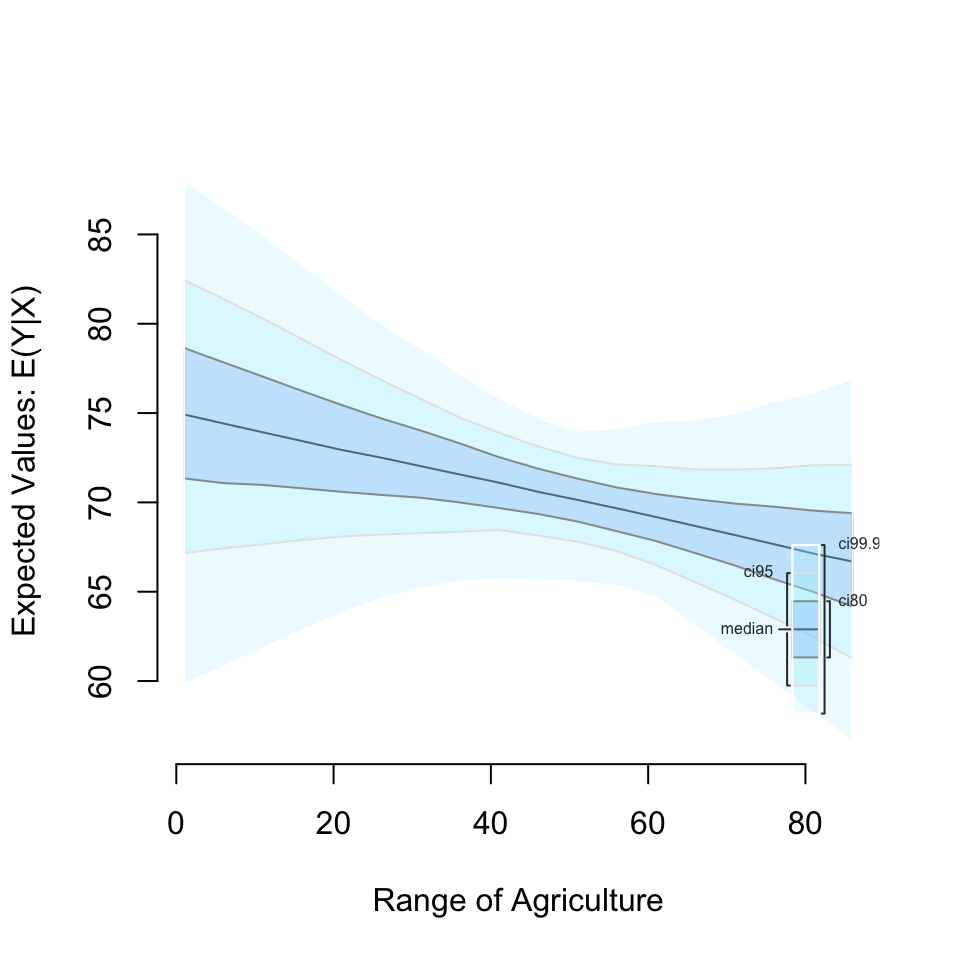
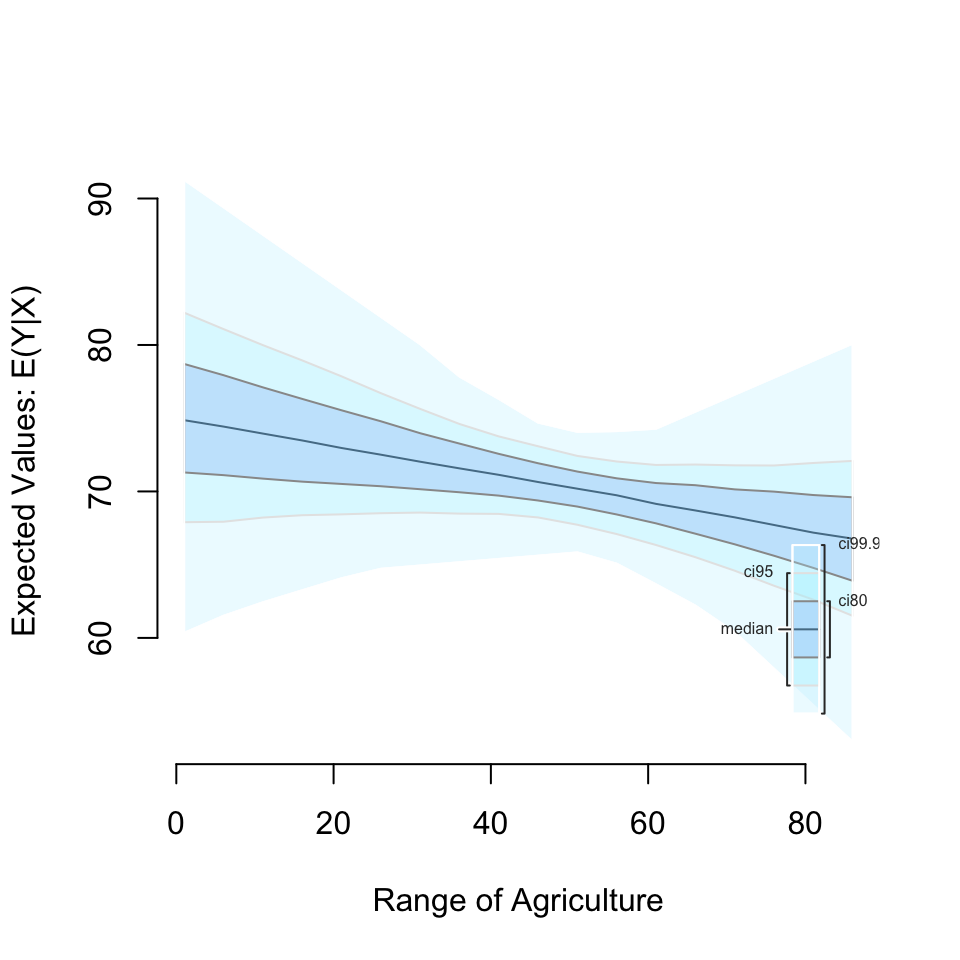
minor

diff --git a/index.html b/index.html
@@ -121,7 +121,7 @@ $(document).ready(function () {
 
 <div id="everyones-statistical-software" class="section level1">
 <h1>Everyone’s Statistical Software</h1>
[2 lines of base64/hex data omitted]
 <blockquote>
 <p><strong>NOTE: This site is in BETA.</strong> For the current official Zelig site see: <a href="http://zeligproject.org" class="uri">http://zeligproject.org</a></p>
 </blockquote>

diff --git a/docs/articles/zelig-tidyverse.html b/docs/articles/zelig-tidyverse.html
@@ -105,7 +105,7 @@
     <div class="page-header toc-ignore">
       <h1>Zelig and the Tidyverse</h1>
             
-            <h4 class="date">2017-02-22</h4>
+            <h4 class="date">2017-02-23</h4>
           </div>
 
     
@@ -175,12 +175,12 @@ swiss %&gt;%<span class="st"> </span>
 
 <span class="kw">head</span>(sims.full)</code></pre></div>
 <pre><code>##   setx_value Agriculture Examination expected_value predicted_value
-## 1          x           1    16.48936       84.00574        79.82021
-## 2          x           1    16.48936       73.08617        78.50654
-## 3          x           1    16.48936       70.35042        75.76874
-## 4          x           1    16.48936       80.27739        90.41597
-## 5          x           1    16.48936       75.50518        73.32123
-## 6          x           1    16.48936       74.67167        80.02266</code></pre>
+## 1          x           1    16.48936       64.43366        37.74439
+## 2          x           1    16.48936       74.43682        66.75536
+## 3          x           1    16.48936       77.07808        92.33237
+## 4          x           1    16.48936       78.64613        78.29714
+## 5          x           1    16.48936       68.37984        67.39471
+## 6          x           1    16.48936       84.33185        75.62818</code></pre>
 <p>Each row contains information for an individual “observation”, i.e. a quantity of interest calculated from one draw of the model parameters from the multivariate normal distribution.</p>
 <p>The first three columns of the object returned by <code>zelig_qi_to_df</code> in this case contain information that identifies the scenario that the quantity of interest is from. For example, the first row is from a scenario where <code>Agriculture</code> is fitted at <code>1</code> and <code>Examination</code> is fitted at the sample mean 16.4893617. The <code>setx_value</code> column identifies if the values were fitted by a <code>setx</code> call as <code>x</code> or <code>x1</code>–a contrasting scenario used to find first differences.</p>
 <p>The final two columns contain the expected and predicted value of the quantity of interest, respectively.<a href="#fn1" class="footnoteRef" id="fnref1"><sup>1</sup></a></p>
@@ -189,12 +189,12 @@ swiss %&gt;%<span class="st"> </span>
 <pre><code>## Slimming Expected Values . . .</code></pre>
 <div class="sourceCode"><pre class="sourceCode r"><code class="sourceCode r"><span class="kw">head</span>(sims.slimmed)</code></pre></div>
 <pre><code>##   setx_value Agriculture Examination qi_ci_min qi_ci_median qi_ci_max
-## 1          x           1    16.48936  65.75518     75.21336  84.37720
-## 2          x           6    16.48936  66.20842     74.68020  82.84272
-## 3          x          11    16.48936  66.44972     74.22790  81.54949
-## 4          x          16    16.48936  66.82196     73.74735  80.31115
-## 5          x          21    16.48936  67.26946     73.21621  78.95559
-## 6          x          26    16.48936  67.52224     72.69393  77.76690</code></pre>
+## 1          x           1    16.48936  65.23618     74.85465  83.76993
+## 2          x           6    16.48936  65.69857     74.33442  82.52815
+## 3          x          11    16.48936  66.20310     73.89614  81.13799
+## 4          x          16    16.48936  66.58618     73.42684  79.93759
+## 5          x          21    16.48936  67.06060     72.96151  78.66124
+## 6          x          26    16.48936  67.32961     72.53914  77.41101</code></pre>
 <p>Now we have one row for each scenario. This contains the columns <code>qi_ci_min</code>, <code>qi_ci_median</code>, and <code>qi_ci_max</code> for the central interval of the simulations from each scenario. By default <code>qi_ci_min</code> and <code>qi_ci_max</code> contain central interval bounds at the lower 2.5 and upper 97.5 percentiles, respectively. <code>qi_ci_median</code> contains the simulated distribution’s median. The interval can be changed with the <code>ci</code> argument. You can choose expected value (<code>ev</code>) or predicted value (<code>pv</code>) with the <code>qi_ci_type</code> argument.</p>
 <p>Now we have everything to make a ggplot2 plot summarizing the simulated quantity of interest:</p>
 <div class="sourceCode"><pre class="sourceCode r"><code class="sourceCode r"><span class="kw">ggplot</span>(sims.slimmed, <span class="kw">aes</span>(Agriculture, qi_ci_median)) +

diff --git a/docs/articles/transforming-covariates.html b/docs/articles/transforming-covariates.html
@@ -5,7 +5,7 @@
 <meta charset="utf-8">
 <meta http-equiv="X-UA-Compatible" content="IE=edge">
 <meta name="viewport" content="width=device-width, initial-scale=1.0">
-<title>Comparing Zelig 5 and Zelig 4 Syntax • Zelig</title>
+<title>Transforming Covariates • Zelig</title>
 <!-- jquery --><script src="https://code.jquery.com/jquery-3.1.0.min.js" integrity="sha384-nrOSfDHtoPMzJHjVTdCopGqIqeYETSXhZDFyniQ8ZHcVy08QesyHcnOUpMpqnmWq" crossorigin="anonymous"></script><!-- Bootstrap --><link href="https://maxcdn.bootstrapcdn.com/bootswatch/3.3.7/paper/bootstrap.min.css" rel="stylesheet" crossorigin="anonymous">
 <script src="https://maxcdn.bootstrapcdn.com/bootstrap/3.3.7/js/bootstrap.min.js" integrity="sha384-Tc5IQib027qvyjSMfHjOMaLkfuWVxZxUPnCJA7l2mCWNIpG9mGCD8wGNIcPD7Txa" crossorigin="anonymous"></script><!-- Font Awesome icons --><link href="https://maxcdn.bootstrapcdn.com/font-awesome/4.6.3/css/font-awesome.min.css" rel="stylesheet" integrity="sha384-T8Gy5hrqNKT+hzMclPo118YTQO6cYprQmhrYwIiQ/3axmI1hQomh7Ud2hPOy8SP1" crossorigin="anonymous">
 <!-- pkgdown --><link href="../pkgdown.css" rel="stylesheet">
@@ -103,7 +103,7 @@
       </header><div class="row">
   <div class="col-md-9">
     <div class="page-header toc-ignore">
-      <h1>Comparing Zelig 5 and Zelig 4 Syntax</h1>
+      <h1>Transforming Covariates</h1>
             
             <h4 class="date">2017-02-23</h4>
           </div>
@@ -112,19 +112,11 @@
     
 <div class="contents">
 <p><em>Built using Zelig version 5.0.16</em></p>
-<p>Zelig 5 uses <a href="http://adv-r.had.co.nz/R5.html">reference classes</a> which work a bit differently from what you may expect in R. The big difference is that they are “mutable”, i.e. assigning values to them does not overwrite the objects previous contents.</p>
-<p>Zelig 5 does contain wrappers (largely) allowing you to use Zelig 4 syntax if you’d like. Here is an example workflow with Zelig 5:</p>
-<div class="sourceCode"><pre class="sourceCode r"><code class="sourceCode r">z5 &lt;-<span class="st"> </span>zls$<span class="kw">new</span>()
-z5$<span class="kw"><a href="../reference/zelig.html">zelig</a></span>(Y ~<span class="st"> </span>X1 +<span class="st"> </span>X ~<span class="st"> </span>X, <span class="dt">weights =</span> w, <span class="dt">data =</span> mydata)
-z5$<span class="kw"><a href="../reference/setx.html">setx</a></span>()
-z5$<span class="kw"><a href="../reference/sim.html">sim</a></span>()
-z5$<span class="kw">graph</span>()</code></pre></div>
-<p>Here is the same set of operations using the Zelig 4 wrappers:</p>
-<div class="sourceCode"><pre class="sourceCode r"><code class="sourceCode r">z.out &lt;-<span class="st"> </span><span class="kw"><a href="../reference/zelig.html">zelig</a></span>(Y ~<span class="st"> </span>X1 +<span class="st"> </span>X2, <span class="dt">model =</span> <span class="st">"ls"</span>, <span class="dt">weights =</span> w, <span class="dt">data =</span> mydata)
-x.out &lt;-<span class="st"> </span><span class="kw"><a href="../reference/setx.html">setx</a></span>(z.out)
-s.out &lt;-<span class="st"> </span><span class="kw"><a href="../reference/sim.html">sim</a></span>(z.out, <span class="dt">x =</span> x.out)
-<span class="kw">plot</span>(s.out)</code></pre></div>
-<p>Note that all of the output objects from the Zelig 4 wrappers are Zelig 5 reference class objects, so you can mix and match which syntax you like.</p>
+<p>For convienience, you may wish to transform one or more of your covariates within the <code>zelig</code> model estimation call. For example, imagine we want to natural log transform the variable <code>dist</code> in a linear regression:</p>
+<div class="sourceCode"><pre class="sourceCode r"><code class="sourceCode r"><span class="kw">library</span>(Zelig)
+
+z1 &lt;-<span class="st"> </span><span class="kw"><a href="../reference/zelig.html">zelig</a></span>(speed ~<span class="st"> </span><span class="kw">log</span>(dist), <span class="dt">data =</span> cars, <span class="dt">model =</span> <span class="st">'ls'</span>, <span class="dt">cite =</span> <span class="ot">FALSE</span>)</code></pre></div>
+<p>Then we want to find quantities of interest when the <code>dist</code> variable is</p>
 </div>
   </div>
 

diff --git a/docs/reference/transformer.html b/docs/reference/transformer.html
@@ -6,7 +6,7 @@
 <meta http-equiv="X-UA-Compatible" content="IE=edge">
 <meta name="viewport" content="width=device-width, initial-scale=1.0">
 
-<title>Calculate the reduced dataset to be used in  — reduce • Zelig</title>
+<title>Conduct variable transformations called inside a  — transformer • Zelig</title>
 
 <!-- jquery -->
 <script src="https://code.jquery.com/jquery-3.1.0.min.js" integrity="sha384-nrOSfDHtoPMzJHjVTdCopGqIqeYETSXhZDFyniQ8ZHcVy08QesyHcnOUpMpqnmWq" crossorigin="anonymous"></script>
@@ -123,35 +123,32 @@
       <div class="row">
   <div class="col-md-9 contents">
     <div class="page-header">
-    <h1>Calculate the reduced dataset to be used in </h1>
+    <h1>Conduct variable transformations called inside a </h1>
     </div>
 
     
-    <p>#&#39; This method is used internally</p>
+    <p>Conduct variable transformations called inside a <code>zelig</code> call</p>
     
 
-    <pre><span class='fu'>reduce</span>(<span class='no'>dataset</span>, <span class='no'>s</span>, <span class='no'>formula</span>, <span class='no'>data</span>, <span class='kw'>avg</span> <span class='kw'>=</span> <span class='no'>avg</span>)</pre>
+    <pre><span class='fu'>transformer</span>(<span class='no'>formula</span>, <span class='no'>data</span>, <span class='kw'>FUN</span> <span class='kw'>=</span> <span class='st'>"log"</span>, <span class='no'>check</span>, <span class='no'>f_out</span>, <span class='no'>d_out</span>)</pre>
     
     <h2 class="hasAnchor" id="arguments"><a class="anchor" href="#arguments"></a> Arguments</h2>
     <dl class="dl-horizontal">
-      <dt>dataset</dt>
-      <dd>Zelig object data, possibly split to deal with <code>by</code>
-argument</dd>
-      <dt>s</dt>
-      <dd>list of variables and their tentative <code>setx</code> values</dd>
       <dt>formula</dt>
-      <dd>a simplified version of the Zelig object formula (typically
-with 1 on the lhs)</dd>
+      <dd>model formulae</dd>
       <dt>data</dt>
-      <dd>Zelig object data</dd>
-      <dt>avg</dt>
-      <dd>function of data transformations</dd>
+      <dd>data frame used in <code>formula</code></dd>
+      <dt>FUN</dt>
+      <dd>character string of the transformation function</dd>
+      <dt>check</dt>
+      <dd>logical whether to just check if a formula contains an
+internally called transformation and return <code>TRUE</code> or <code>FALSE</code></dd>
+      <dt>f_out</dt>
+      <dd>logical whether to return the converted formula</dd>
+      <dt>d_out</dt>
+      <dd>logical whether to return the converted data frame. Note:
+<code>f_out</code> must be missing</dd>
     </dl>
-    
-    <h2 class="hasAnchor" id="value"><a class="anchor" href="#value"></a>Value</h2>
-
-    <p>a list of all the model variables either at their central tendancy or
-  their <code>setx</code> value</p>
     
 
   </div>
@@ -159,13 +156,11 @@ with 1 on the lhs)</dd>
     <h2>Contents</h2>
     <ul class="nav nav-pills nav-stacked">
       <li><a href="#arguments">Arguments</a></li>
-      
-      <li><a href="#value">Value</a></li>
-          </ul>
+                </ul>
 
     <h2>Author</h2>
     
-Christine Choirat and Christopher Gandrud
+Christopher Gandrud
 
   </div>
 </div>

diff --git a/docs/articles/index.html b/docs/articles/index.html
@@ -133,6 +133,7 @@
       <ul>
         <li><a href="available-models-overview.html">Available Zelig Models Overview</a></li>
         <li><a href="quickstart.html">Zelig 5 Quickstart Guide</a></li>
+        <li><a href="transforming-covariates.html">Transforming Covariates</a></li>
         <li><a href="zelig-tidyverse.html">Zelig and the Tidyverse</a></li>
         <li><a href="zelig5-vs-zelig4.html">Comparing Zelig 5 and Zelig 4 Syntax</a></li>
       </ul>

diff --git a/docs/articles/zelig-ls.html b/docs/articles/zelig-ls.html
@@ -106,7 +106,7 @@
       <h1>Least Squares Regression for Continuous Dependent Variables with <code>ls</code>
 </h1>
             
-            <h4 class="date">2017-02-22</h4>
+            <h4 class="date">2017-02-23</h4>
           </div>
 
     

diff --git a/docs/articles/available-models-overview.html b/docs/articles/available-models-overview.html
@@ -105,7 +105,7 @@
     <div class="page-header toc-ignore">
       <h1>Available Zelig Models Overview</h1>
             
-            <h4 class="date">2017-02-22</h4>
+            <h4 class="date">2017-02-23</h4>
           </div>
 
     

diff --git a/docs/articles/quickstart.html b/docs/articles/quickstart.html
@@ -105,7 +105,7 @@
     <div class="page-header toc-ignore">
       <h1>Zelig 5 Quickstart Guide</h1>
             
-            <h4 class="date">2017-02-22</h4>
+            <h4 class="date">2017-02-23</h4>
           </div>
 
     

diff --git a/docs/articles/developers-guide.html b/docs/articles/developers-guide.html
@@ -105,7 +105,7 @@
     <div class="page-header toc-ignore">
       <h1>Developer’s Guide</h1>
             
-            <h4 class="date">2017-02-22</h4>
+            <h4 class="date">2017-02-23</h4>
           </div>
 
     

diff --git a/docs/articles/about.html b/docs/articles/about.html
@@ -105,7 +105,7 @@
     <div class="page-header toc-ignore">
       <h1>About Zelig</h1>
             
-            <h4 class="date">2017-02-22</h4>
+            <h4 class="date">2017-02-23</h4>
           </div>
 
     

diff --git a/docs/reference/statlevel.html b/docs/reference/statlevel.html
@@ -142,7 +142,7 @@
     
     <h2 class="hasAnchor" id="value"><a class="anchor" href="#value"></a>Value</h2>
 
-    <p>a formatted qi</p>
+    <p>a formatted quantity of interest</p>
     
 
   </div>
